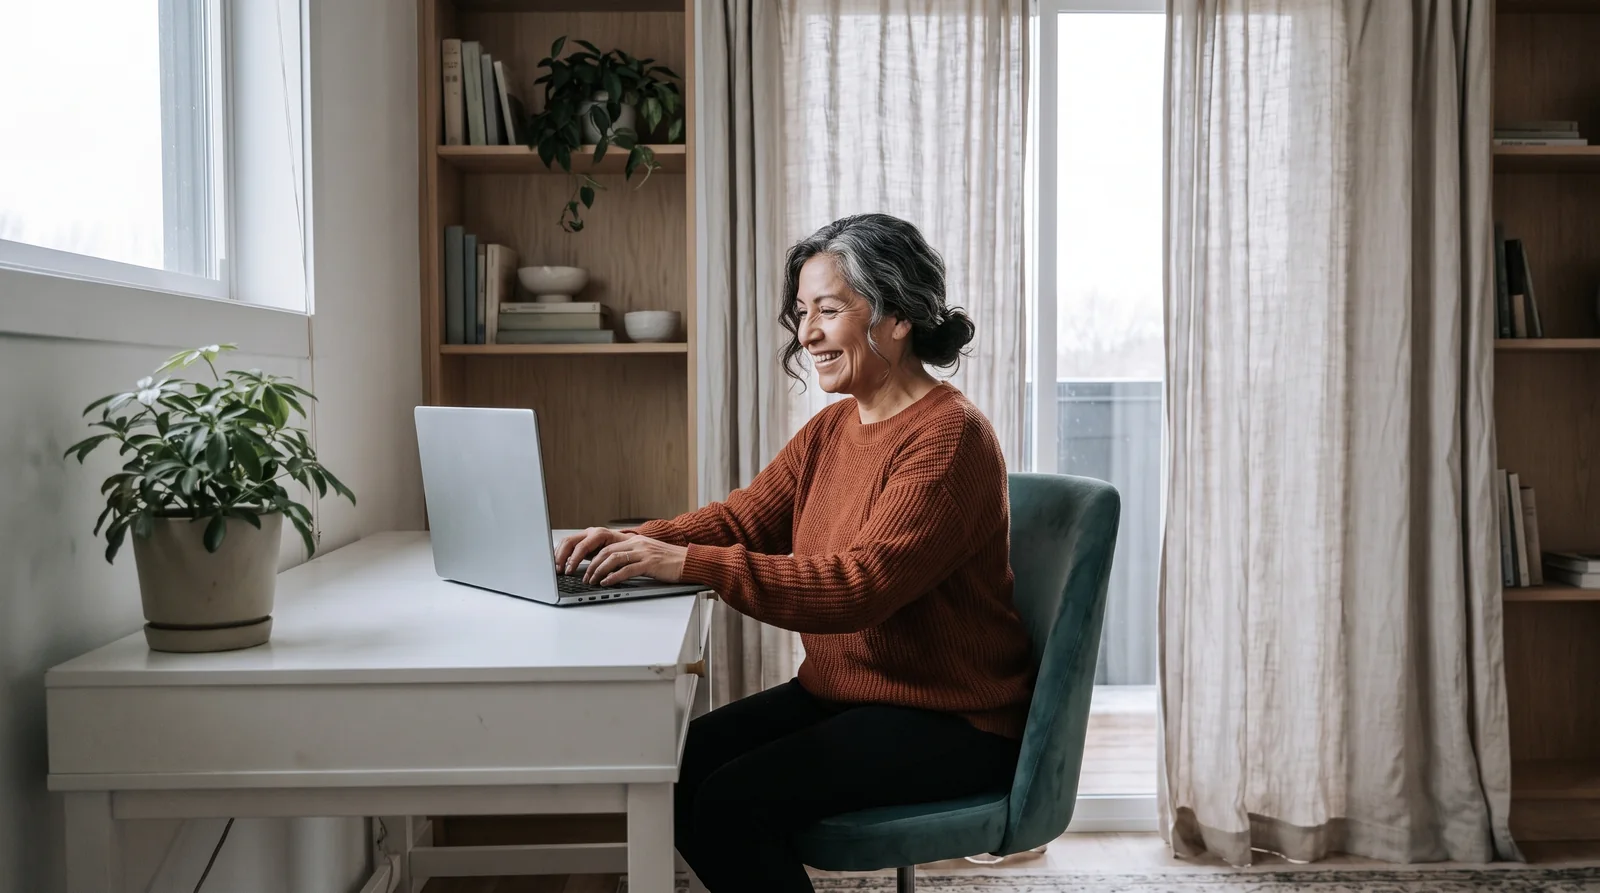
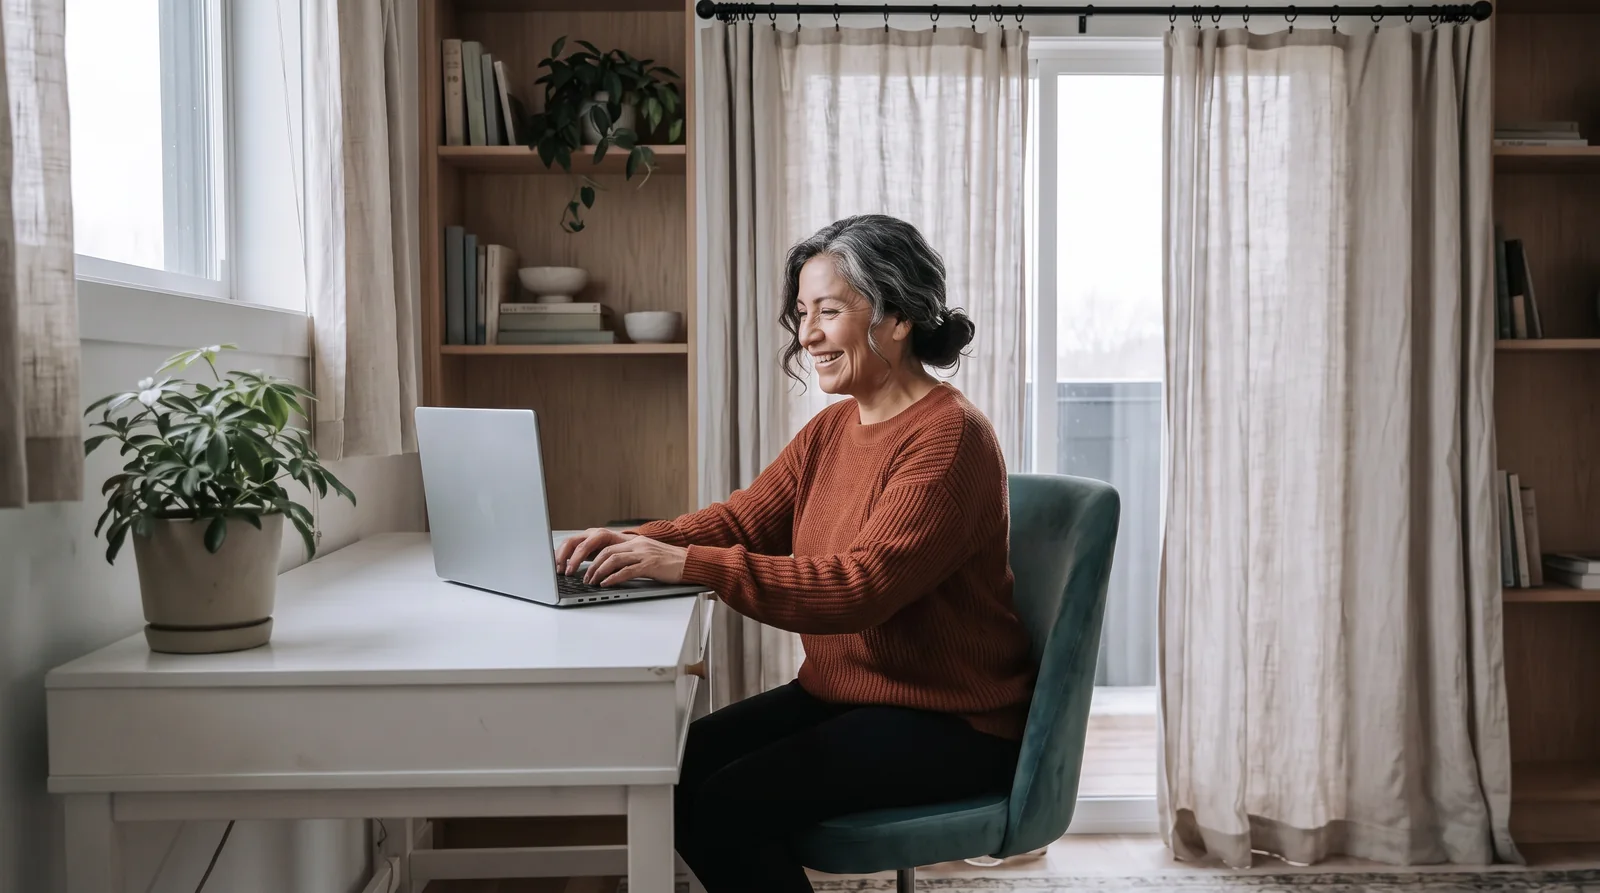
90-day income cover: curtains on the bare window

diff --git a/blog-pipeline/photos-completed/income-if-you-stop-for-90-days.md b/blog-pipeline/photos-completed/income-if-you-stop-for-90-days.md
@@ -4,7 +4,7 @@ post_title: "What Happens to Your Income If You Stop Working for 90 Days? (2026)
 slug: income-if-you-stop-for-90-days
 status: done
 cameron_processed: false
-note: "BUILDER TRACK, shot on Higgsfield nano-banana-pro at native 2752x1536 and delivered at 1600px webp. EVERY FRAME WAS WALKED THROUGH ALL 14 CHECKS IN PHOTO-CLAUDE-RULES.md, written out line by line, before committing. FTC rule holds: no money, no cards, no charts, no calendars, no clocks, laptop lid plain with no logo and its screen facing away. SHOWING NINETY DAYS WITHOUT A NUMBER: time passing is carried by the room itself. ONE woman across the set: a Latina woman of about 53, thick dark wavy hair clearly streaked with grey, olive-brown skin, rust knitted jumper, black trousers. THE ROOM is her bright home office: a white desk against the wall under the window, a teal velvet desk chair, oak bookshelves with plain spines, bowls and plants, full length linen curtains, a patterned rug. Hero is her at the desk on an ordinary working morning, the potted plant beside her healthy and green. VILLAIN CARRIES THE ARGUMENT with nobody in it: the same desk after months away, the same plant now dried out, brown and drooping with fallen leaves on the desk, a film of dust on the closed laptop, her rust cardigan still over the chair back, grey light. Nobody has sat here in a long time and nothing was earned while she was gone. Turning point has her back at the desk with the laptop closed, both hands in her lap, turned to the window, settled. BELONGING IS A NEW SETTING: two clearly different women in their fifties walking between rows of vines in a sunny hillside vineyard, both laughing, hands loose at their sides. Freedom is the warmest: her barefoot at the edge of the sea at golden hour, shoes in one hand, hair loose, laughing. RESHOT OR FIXED TO PASS THE LIST: the first hero had a mug on the shelf and no grey in her hair; the first turning point drifted into a different brick loft room with an antique table and an old spindle chair (the approved villain was used as an image reference to lock the room); the delivered freedom is cropped to remove a stranger's head at the left edge. Freedom reshot 2026-10-13 as incomeifyou-freedom-v2: the v1 frame was her barefoot at the edge of the sea, a beach, which breaks this set FTC rule. New frame is the same Latina woman of about 53 in the same rust sweater, sitting on the wooden back porch steps of her own ordinary American house at golden hour with her mother, about 78, short white hair, lavender cardigan, both well and laughing, her mother hand on her knee. Behind them a small fenced back garden with potted tomatoes, a lemon tree and a clothesline. No water, no travel, no car, nothing that reads as money, no readable text. Warmest frame, R/B 1.65."
+note: "BUILDER TRACK, shot on Higgsfield nano-banana-pro at native 2752x1536 and delivered at 1600px webp. EVERY FRAME WAS WALKED THROUGH ALL 14 CHECKS IN PHOTO-CLAUDE-RULES.md, written out line by line, before committing. FTC rule holds: no money, no cards, no charts, no calendars, no clocks, laptop lid plain with no logo and its screen facing away. SHOWING NINETY DAYS WITHOUT A NUMBER: time passing is carried by the room itself. ONE woman across the set: a Latina woman of about 53, thick dark wavy hair clearly streaked with grey, olive-brown skin, rust knitted jumper, black trousers. THE ROOM is her bright home office: a white desk against the wall under the window, a teal velvet desk chair, oak bookshelves with plain spines, bowls and plants, full length linen curtains, a patterned rug. Hero is her at the desk on an ordinary working morning, the potted plant beside her healthy and green. VILLAIN CARRIES THE ARGUMENT with nobody in it: the same desk after months away, the same plant now dried out, brown and drooping with fallen leaves on the desk, a film of dust on the closed laptop, her rust cardigan still over the chair back, grey light. Nobody has sat here in a long time and nothing was earned while she was gone. Turning point has her back at the desk with the laptop closed, both hands in her lap, turned to the window, settled. BELONGING IS A NEW SETTING: two clearly different women in their fifties walking between rows of vines in a sunny hillside vineyard, both laughing, hands loose at their sides. Freedom is the warmest: her barefoot at the edge of the sea at golden hour, shoes in one hand, hair loose, laughing. RESHOT OR FIXED TO PASS THE LIST: the first hero had a mug on the shelf and no grey in her hair; the first turning point drifted into a different brick loft room with an antique table and an old spindle chair (the approved villain was used as an image reference to lock the room); the delivered freedom is cropped to remove a stranger's head at the left edge. Freedom reshot 2026-10-13 as incomeifyou-freedom-v2: the v1 frame was her barefoot at the edge of the sea, a beach, which breaks this set FTC rule. New frame is the same Latina woman of about 53 in the same rust sweater, sitting on the wooden back porch steps of her own ordinary American house at golden hour with her mother, about 78, short white hair, lavender cardigan, both well and laughing, her mother hand on her knee. Behind them a small fenced back garden with potted tomatoes, a lemon tree and a clothesline. No water, no travel, no car, nothing that reads as money, no readable text. Warmest frame, R/B 1.65. Cover fixed 2026-10-17: the window on the left above the desk was bare, so linen curtain panels on a black rod were added by edit; everything else is the same frame, the laptop faces away with no screen showing, which the builder brief allows."
 ---
 
 ### incomeifyou-hero-v1
